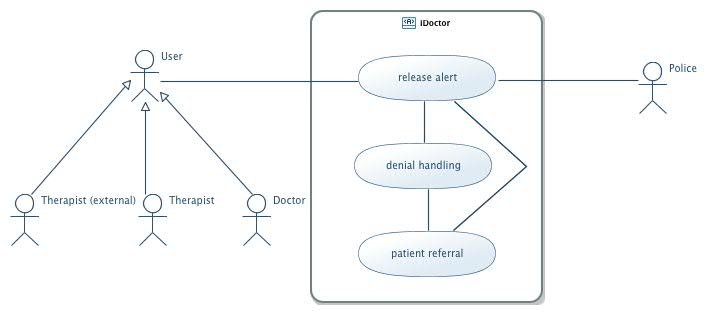
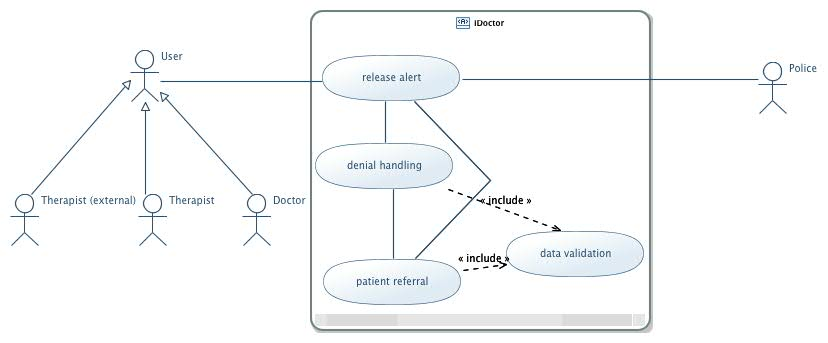
Use-Case-Diagram

diff --git a/ch.bfh.btx8081.w2013.blue/doc/diary.html b/ch.bfh.btx8081.w2013.blue/doc/diary.html
@@ -5,36 +5,71 @@
 		<title>team blue</title>
 	</head>
 	<body style="background-color:lemonchiffon;">
-	<img src="http://klimnet.bfh.ch/Logo_BFH.jpg" alt="some_text" style="width: 456px; ">
+	<img src="bfhlogo.png" alt="some_text" style="width: 734px; height: 110px">
 	<p><b>team-members</b>
 		<table border="1" style="background-color:white;">
   		<tr>
    			 <th>Name</th>
     		 <th>eMail</th>
+    		 <th>25.09.</th>
+    		 <th>08.10.</th>
+    		 <th>09.10.</th>
+    		 <th>11.10.</th>
+    		 <th>16.10.</th>	 
   		</tr>
   		<tr>
     		 <td>Saskia Basler</td>
     		 <td>basls1@bfh.ch</td>
+    		 <td>x</td>
+    		 <td>x</td>
+    		 <td>x</td>
+    		 <td>x</td>
+    		 <td>x</td>
  		</tr>
   		<tr>
     		 <td>Maja Kelterborn</td>
     		 <td>keltm1@bfh.ch</td>
+    		 <td>x</td>
+    		 <td>x</td>
+    		 <td>x</td>
+    		 <td>x</td>
+    		 <td>x</td>
  		</tr>
   		<tr>
     		 <td>Rene Vielgut</td>
     		 <td>vielr1@bfh.ch</td>
+    		 <td>x</td>
+    		 <td></td>
+    		 <td>x</td>
+    		 <td></td>
+    		 <td>x</td>
  		</tr>
   		<tr>
     		 <td>Rafael Kapp</td>
     		 <td>kappr3@bfh.ch</td>
+    		 <td>x</td>
+    		 <td>x</td>
+    		 <td>x</td>
+    		 <td>x</td>
+    		 <td></td>
  		</tr>
   		<tr>
     		 <td>Adrian Wyss</td>
     		 <td>wyssa14@bfh.ch</td>
+    		 <td>x</td>
+    		 <td>x</td>
+    		 <td>x</td>
+    		 <td>x</td>
+    		 <td>x</td>
  		</tr>
   		<tr>
     		 <td>Patrick Hirschi</td>
     		 <td>hirsp4@bfh.ch</td>
+    		 <td>x</td>
+    		 <td></td>
+    		 <td>x</td>
+    		 <td>x</td>
+    		 <td>x</td>
  		</tr>
 		</table>
 
@@ -72,6 +107,15 @@
     		 - Started prototyping <br>
     		 - Downloaded prototyping software <b>"Serena"</b> but we chose <b>Mockup</b> <br>
     		 - Started 2nd iteration
+			 </td>
+ 		</tr>
+ 		<tr>
+    		 <td>Wednesday, 16.10.2013</td>
+    		 <td>
+    		 - Drawing Use Cases <br>
+    		 - Optimizing prototypes <br>
+    		 - Use Case Diagram<br>
+    		 - Preparing presentation
 			 </td>
  		</tr>
  				
